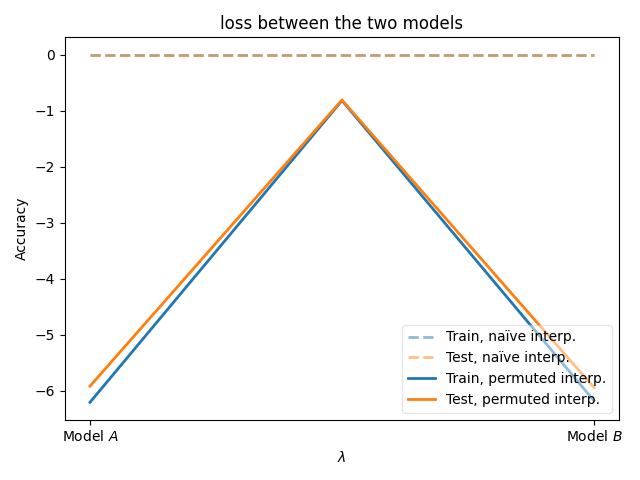
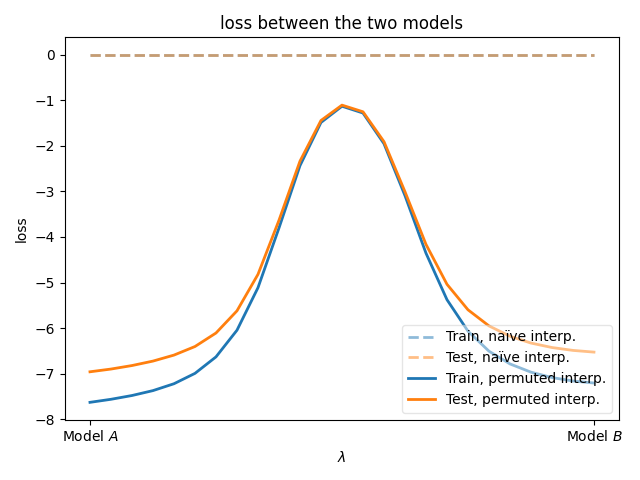
refactor

diff --git a/src/ccmm/utils/weight_matching.py b/src/ccmm/utils/weight_matching.py
@@ -230,35 +230,45 @@ class VGG16PermutationSpecBuilder(PermutationSpecBuilder):
         )
 
 
-def get_permuted_param(ps: PermutationSpec, perm, k: str, params, except_axis=None):
-    """Get parameter `k` from `params`, with the permutations applied."""
-    w = params[k]
-    ps.axes_to_perm[k]
-    for axis, p in enumerate(ps.axes_to_perm[k]):
-        # Skip the axis we're trying to permute.
+def get_permuted_param(param, perms_to_apply, perm_matrices, except_axis=None):
+    """Apply to the parameter `param` all the permutations computed until the current step"""
+
+    for axis, p in enumerate(perms_to_apply):
+        # skip the axis we're trying to permute
         if axis == except_axis:
             continue
 
-        # None indicates that there is no permutation relevant to that axis.
+        # None indicates that there is no permutation relevant to that axis
         if p is not None:
-            w = torch.index_select(w, axis, perm[p].int())
+            param = torch.index_select(param, axis, perm_matrices[p].int())
 
-    return w
+    return param
 
 
-def apply_permutation(ps: PermutationSpec, perm, params):
+def apply_permutation(ps: PermutationSpec, perm_matrices, all_params):
     """Apply a `perm` to `params`."""
-    return {k: get_permuted_param(ps, perm, k, params) for k in params.keys()}
+
+    permuted_params = {}
+
+    for param_name, param in all_params.items():
+        perms_to_apply = ps.axes_to_perm[param_name]
+
+        param = get_permuted_param(param, perms_to_apply, perm_matrices)
+        permuted_params[param_name] = param
+
+    return permuted_params
 
 
 def weight_matching(ps: PermutationSpec, params_a, params_b, max_iter=100, init_perm=None):
     """Find a permutation of params_b to make them match params_a."""
+
     # For a MLP of 4 layers it would be something like {'P_0': 512, 'P_1': 512, 'P_2': 512, 'P_3': 256}. Input and output dim are never permuted.
     perm_sizes = {p: params_a[axes[0][0]].shape[axes[0][1]] for p, axes in ps.perm_to_axes.items()}
 
-    perm = {p: torch.arange(n) for p, n in perm_sizes.items()} if init_perm is None else init_perm
+    # initialize with identity permutation if none given
+    perm_matrices = {p: torch.arange(n) for p, n in perm_sizes.items()} if init_perm is None else init_perm
     # e.g. P0, P1, ..
-    perm_names = list(perm.keys())
+    perm_names = list(perm_matrices.keys())
 
     for iteration in tqdm(range(max_iter), desc="Weight matching"):
         progress = False
@@ -269,37 +279,131 @@ def weight_matching(ps: PermutationSpec, params_a, params_b, max_iter=100, init_
             n = perm_sizes[p]
 
             A = torch.zeros((n, n))
+            # B = torch.zeros((n, n))
+            # C = torch.zeros((n, n))
 
-            for params_name, axis in ps.perm_to_axes[p]:
+            # all the params that are permuted by this permutation matrix, together with the axis on which it acts
+            # e.g. ('layer_0.weight', 0), ('layer_0.bias', 0), ('layer_1.weight', 0)..
+            params_and_axes = ps.perm_to_axes[p]
+
+            for params_name, axis in params_and_axes:
                 w_a = params_a[params_name]
-                w_b = get_permuted_param(ps, perm, params_name, params_b, except_axis=axis)
+                w_b = params_b[params_name]
+                # w_c = params_c[params_name]
+
+                assert w_a.shape == w_b.shape
+
+                perms_to_apply = ps.axes_to_perm[params_name]
+
+                w_b_to_a = get_permuted_param(w_b, perms_to_apply, perm_matrices, except_axis=axis)
+                # w_c_to_a = get_permuted_param(w_c, perms_to_apply, perm_matrices[-> a], except_axis=axis)
+                # w_c_to_b = get_permuted_param(w_c, perms_to_apply, perm_matrices[-> b], except_axis=axis)
+
                 w_a = torch.moveaxis(w_a, axis, 0).reshape((n, -1))
                 w_b = torch.moveaxis(w_b, axis, 0).reshape((n, -1))
+                # w_c = torch.moveaxis(w_c, axis, 0).reshape((n, -1))
+
+                A += w_a @ w_b_to_a.T
+                # B += w_a @ w_c_to_a
+                # C += w_b @ w_c_to_b
+
+            ri, ci = linear_sum_assignment(A.detach().numpy(), maximize=True)
+            # pi_b_to_a, pi_c_to_a, pi_c_to_b = alg(A, B, C)
+
+            assert (torch.tensor(ri) == torch.arange(len(ri))).all()
+
+            old_similarity = compute_weights_similarity(A, perm_matrices[p])
+
+            perm_matrices[p] = torch.Tensor(ci)
+
+            new_similarity = compute_weights_similarity(A, perm_matrices[p])
+
+            pylogger.info(f"Iteration {iteration}, Permutation {p}: {new_similarity - old_similarity}")
+
+            progress = progress or new_similarity > old_similarity + 1e-12
+
+        if not progress:
+            break
+
+    return perm_matrices
+
+
+def weight_matching(ps: PermutationSpec, params_a, params_b, max_iter=100, init_perm=None):
+    """Find a permutation of params_b to make them match params_a."""
+
+    # For a MLP of 4 layers it would be something like {'P_0': 512, 'P_1': 512, 'P_2': 512, 'P_3': 256}. Input and output dim are never permuted.
+    perm_sizes = {p: params_a[axes[0][0]].shape[axes[0][1]] for p, axes in ps.perm_to_axes.items()}
+
+    # initialize with identity permutation if none given
+    perm_matrices = {p: torch.arange(n) for p, n in perm_sizes.items()} if init_perm is None else init_perm
+    # e.g. P0, P1, ..
+    perm_names = list(perm_matrices.keys())
+
+    for iteration in tqdm(range(max_iter), desc="Weight matching"):
+        progress = False
+
+        # iterate over the permutation matrices in random order
+        for p_ix in torch.randperm(len(perm_names)):
+            p = perm_names[p_ix]
+            n = perm_sizes[p]
+
+            A = torch.zeros((n, n))
+            # B = torch.zeros((n, n))
+            # C = torch.zeros((n, n))
+
+            # all the params that are permuted by this permutation matrix, together with the axis on which it acts
+            # e.g. ('layer_0.weight', 0), ('layer_0.bias', 0), ('layer_1.weight', 0)..
+            params_and_axes = ps.perm_to_axes[p]
+
+            for params_name, axis in params_and_axes:
+                w_a = params_a[params_name]
+                w_b = params_b[params_name]
+                # w_c = params_c[params_name]
+
+                assert w_a.shape == w_b.shape
+
+                perms_to_apply = ps.axes_to_perm[params_name]
+
+                w_b = get_permuted_param(w_b, perms_to_apply, perm_matrices, except_axis=axis)
+                # w_c_to_a = get_permuted_param(w_c, perms_to_apply, perm_matrices, except_axis=axis)
+                # w_c_to_b =
+
+                w_a = torch.moveaxis(w_a, axis, 0).reshape((n, -1))
+                w_b = torch.moveaxis(w_b, axis, 0).reshape((n, -1))
+                # w_c = torch.moveaxis(w_c, axis, 0).reshape((n, -1))
 
                 A += w_a @ w_b.T
+                # B += w_a @ w_c
+                # C += w_b @ w_c
 
             ri, ci = linear_sum_assignment(A.detach().numpy(), maximize=True)
 
             assert (torch.tensor(ri) == torch.arange(len(ri))).all()
 
-            selected_rows = torch.eye(n)[perm[p].long(), :]
-            resultant_vector = (A * selected_rows).sum(dim=1)
-            oldL = resultant_vector.sum()
+            old_similarity = compute_weights_similarity(A, perm_matrices[p])
 
-            selected_rows = torch.eye(n)[ci, :]
-            resultant_vector = (A * selected_rows).sum(dim=1)
-            newL = resultant_vector.sum()
+            perm_matrices[p] = torch.Tensor(ci)
 
-            pylogger.info(f"{iteration}/{p}: {newL - oldL}")
+            new_similarity = compute_weights_similarity(A, perm_matrices[p])
 
-            progress = progress or newL > oldL + 1e-12
+            pylogger.info(f"Iteration {iteration}, Permutation {p}: {new_similarity - old_similarity}")
 
-            perm[p] = torch.Tensor(ci)
+            progress = progress or new_similarity > old_similarity + 1e-12
 
         if not progress:
             break
 
-    return perm
+    return perm_matrices
+
+
+def compute_weights_similarity(A, perm_matrix):
+    """ """
+    n = A.shape[0]
+    selected_rows = torch.eye(n)[perm_matrix.long(), :]
+    resultant_vector = (A * selected_rows).sum(dim=1)
+    similarity = resultant_vector.sum()
+
+    return similarity
 
 
 def test_weight_matching():

diff --git a/src/scripts/match.py b/src/scripts/match.py
@@ -37,7 +37,7 @@ def run(cfg: DictConfig) -> str:
     permutation_spec_builder = instantiate(cfg.permutation_spec_builder)
     permutation_spec = permutation_spec_builder.create_permutation()
 
-    assert list(permutation_spec.axes_to_perm.keys()) == list(model_a.model.state_dict().keys())
+    assert set(permutation_spec.axes_to_perm.keys()) == set(model_a.model.state_dict().keys())
 
     final_permutation = weight_matching(permutation_spec, flatten_params(model_a.model), flatten_params(model_b.model))
 
@@ -121,7 +121,7 @@ def evaluate_interpolated_models(model_a, model_b, train_loader, test_loader, la
     return results
 
 
-@hydra.main(config_path=str(PROJECT_ROOT / "conf/matching"), config_name="resnet")
+@hydra.main(config_path=str(PROJECT_ROOT / "conf/matching"), config_name="mlp")
 def main(cfg: omegaconf.DictConfig):
     run(cfg)
 

diff --git a/src/ccmm/utils/plot.py b/src/ccmm/utils/plot.py
@@ -46,7 +46,7 @@ def plot_interpolation_results(
     ax.set_xlabel(r"$\lambda$")
     ax.set_xticks([0, 1])
     ax.set_xticklabels(["Model $A$", "Model $B$"])
-    ax.set_ylabel("Accuracy")
+    ax.set_ylabel(metric_to_plot)
     # TODO label x=0 tick as \theta_1, and x=1 tick as \theta_2
     ax.set_title(f"{metric_to_plot} between the two models")
     ax.legend(loc="lower right", framealpha=0.5)
